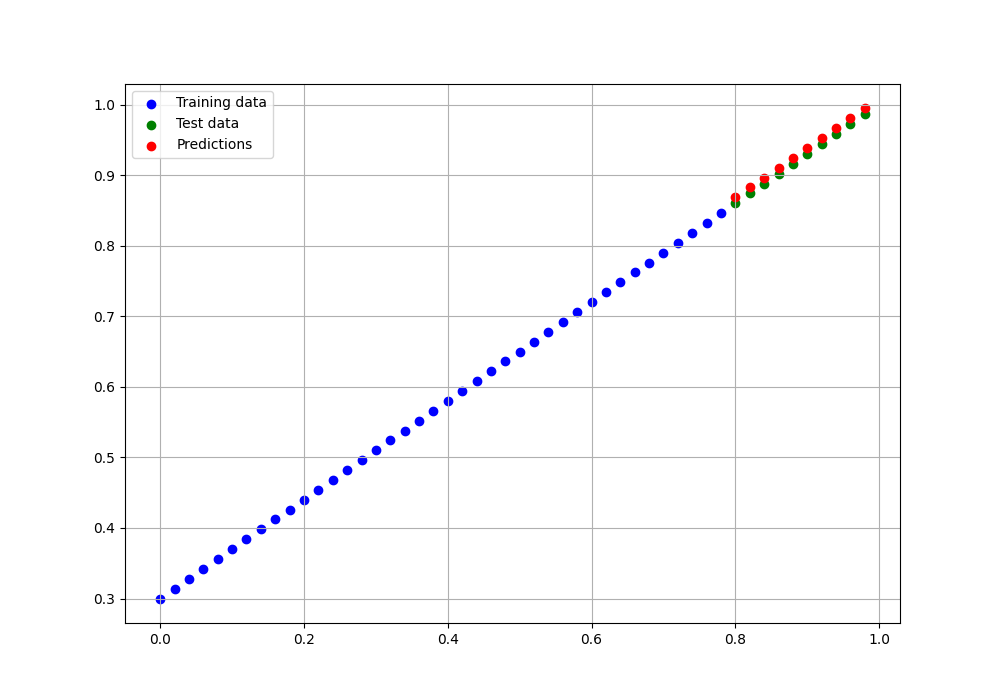
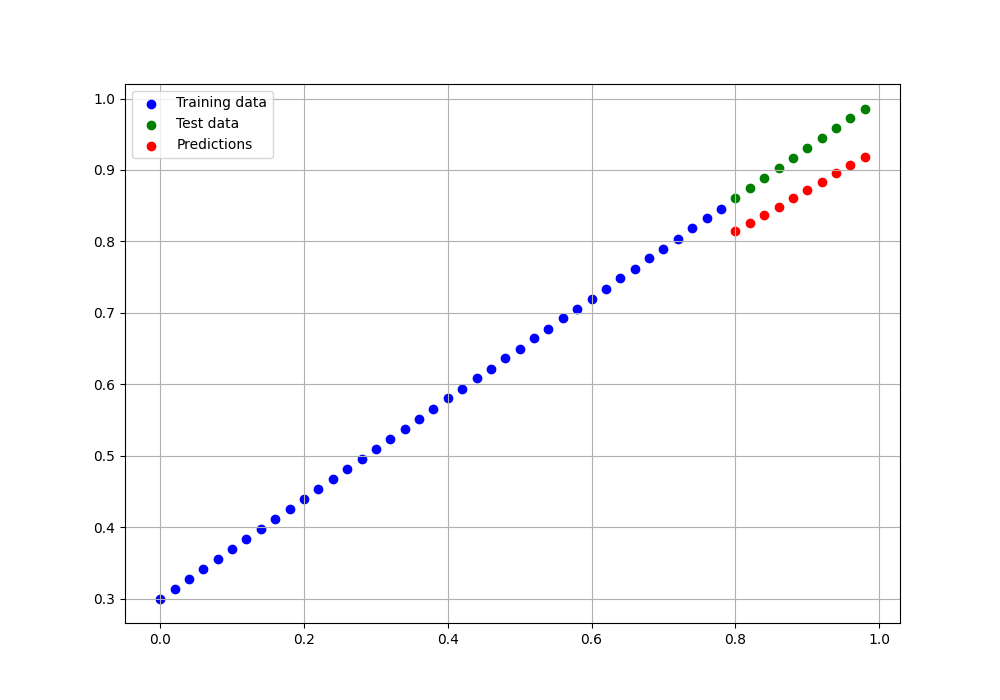
first test loop

diff --git a/lessons/section3_pytorch_workflow/src/b_42_to_46_build_a_linear_regression_model.py b/lessons/section3_pytorch_workflow/src/b_42_to_46_build_a_linear_regression_model.py
@@ -270,7 +270,7 @@ Need in training loop:
 # torch.manual_seed(42)
 print("=============================================================")
 # And epoch is one loop through the data (a hyperparameter, we set by ourselves)
-epochs = 500
+epochs = 100
 
 # List name parameters again before training
 print(
@@ -287,10 +287,10 @@ for epochs in range(epochs):
 
     optimizer_sgd.zero_grad() # zero grad better before forward pass
     # 1. Forward pass
-    y_prediction = linear_regression_model(X_train)
+    y_train_prediction = linear_regression_model(X_train)
 
     # 2. Calculate the loss
-    loss: torch.Tensor = loss_fn_mae(y_prediction, y_train) # always (prediction, targets) <-- follow this form in loss function
+    loss: torch.Tensor = loss_fn_mae(y_train_prediction, y_train) # always (prediction, targets) <-- follow this form in loss function
     # print(f"in loop {epochs}, loss = {loss}")
 
     # 3. Optimizer zero grad
@@ -307,8 +307,21 @@ for epochs in range(epochs):
     # dot.format = "png"
     # dot.render("lessons/section3_pytorch_workflow/src/b_graph_linear_regression", cleanup=True)
 
-    linear_regression_model.eval() # after training, turn off require gradients
+    ### Testing
+    linear_regression_model.eval() # turn off different settings in the model not needed for evaluation/testing (dropout/BatchNorml layers)
     # print(f"in loop {epochs}, model parameter = {linear_regression_model_parameters_listed}")
+    with torch.inference_mode(): # turuns off gradient tracking and a couple of more things behind the scenes
+        # 1. Do the forward pass
+        test_prediction = linear_regression_model(X_test)
+
+        # 2. calculate the loss
+        test_loss = loss_fn_mae(test_prediction, y_test) # (prediction, targets)
+    
+    # print out what is happening during testing
+    if epochs % 10 == 0:
+        print(f"Epoch: {epochs} | Loss: {loss} | Test loss: {test_loss}")
+        print(f"model parameters {linear_regression_model.state_dict()}")
+
 
 
 print(f"After training loop, linear regression model parameters are {linear_regression_model_parameters_listed}")
